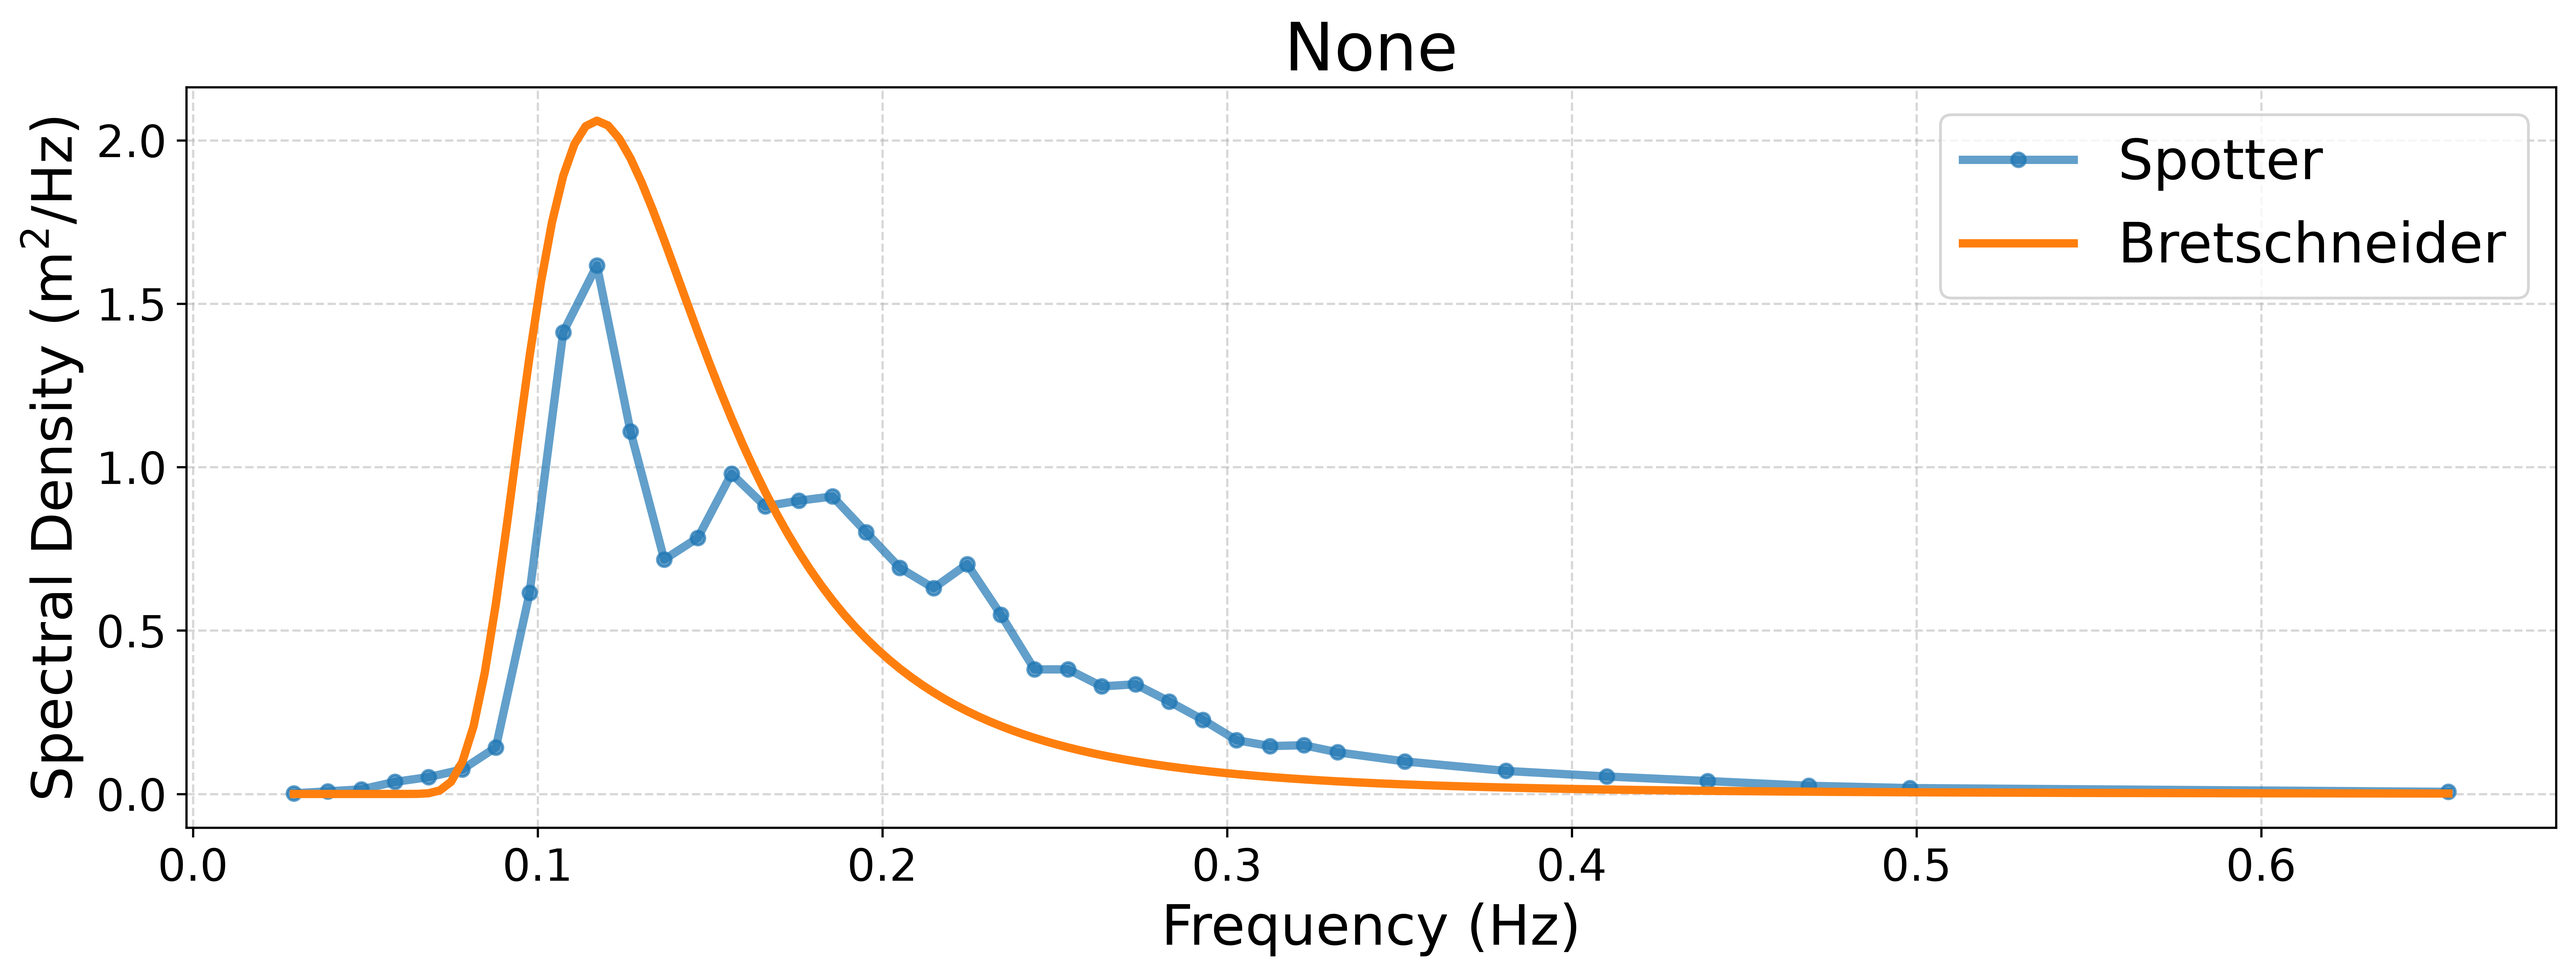
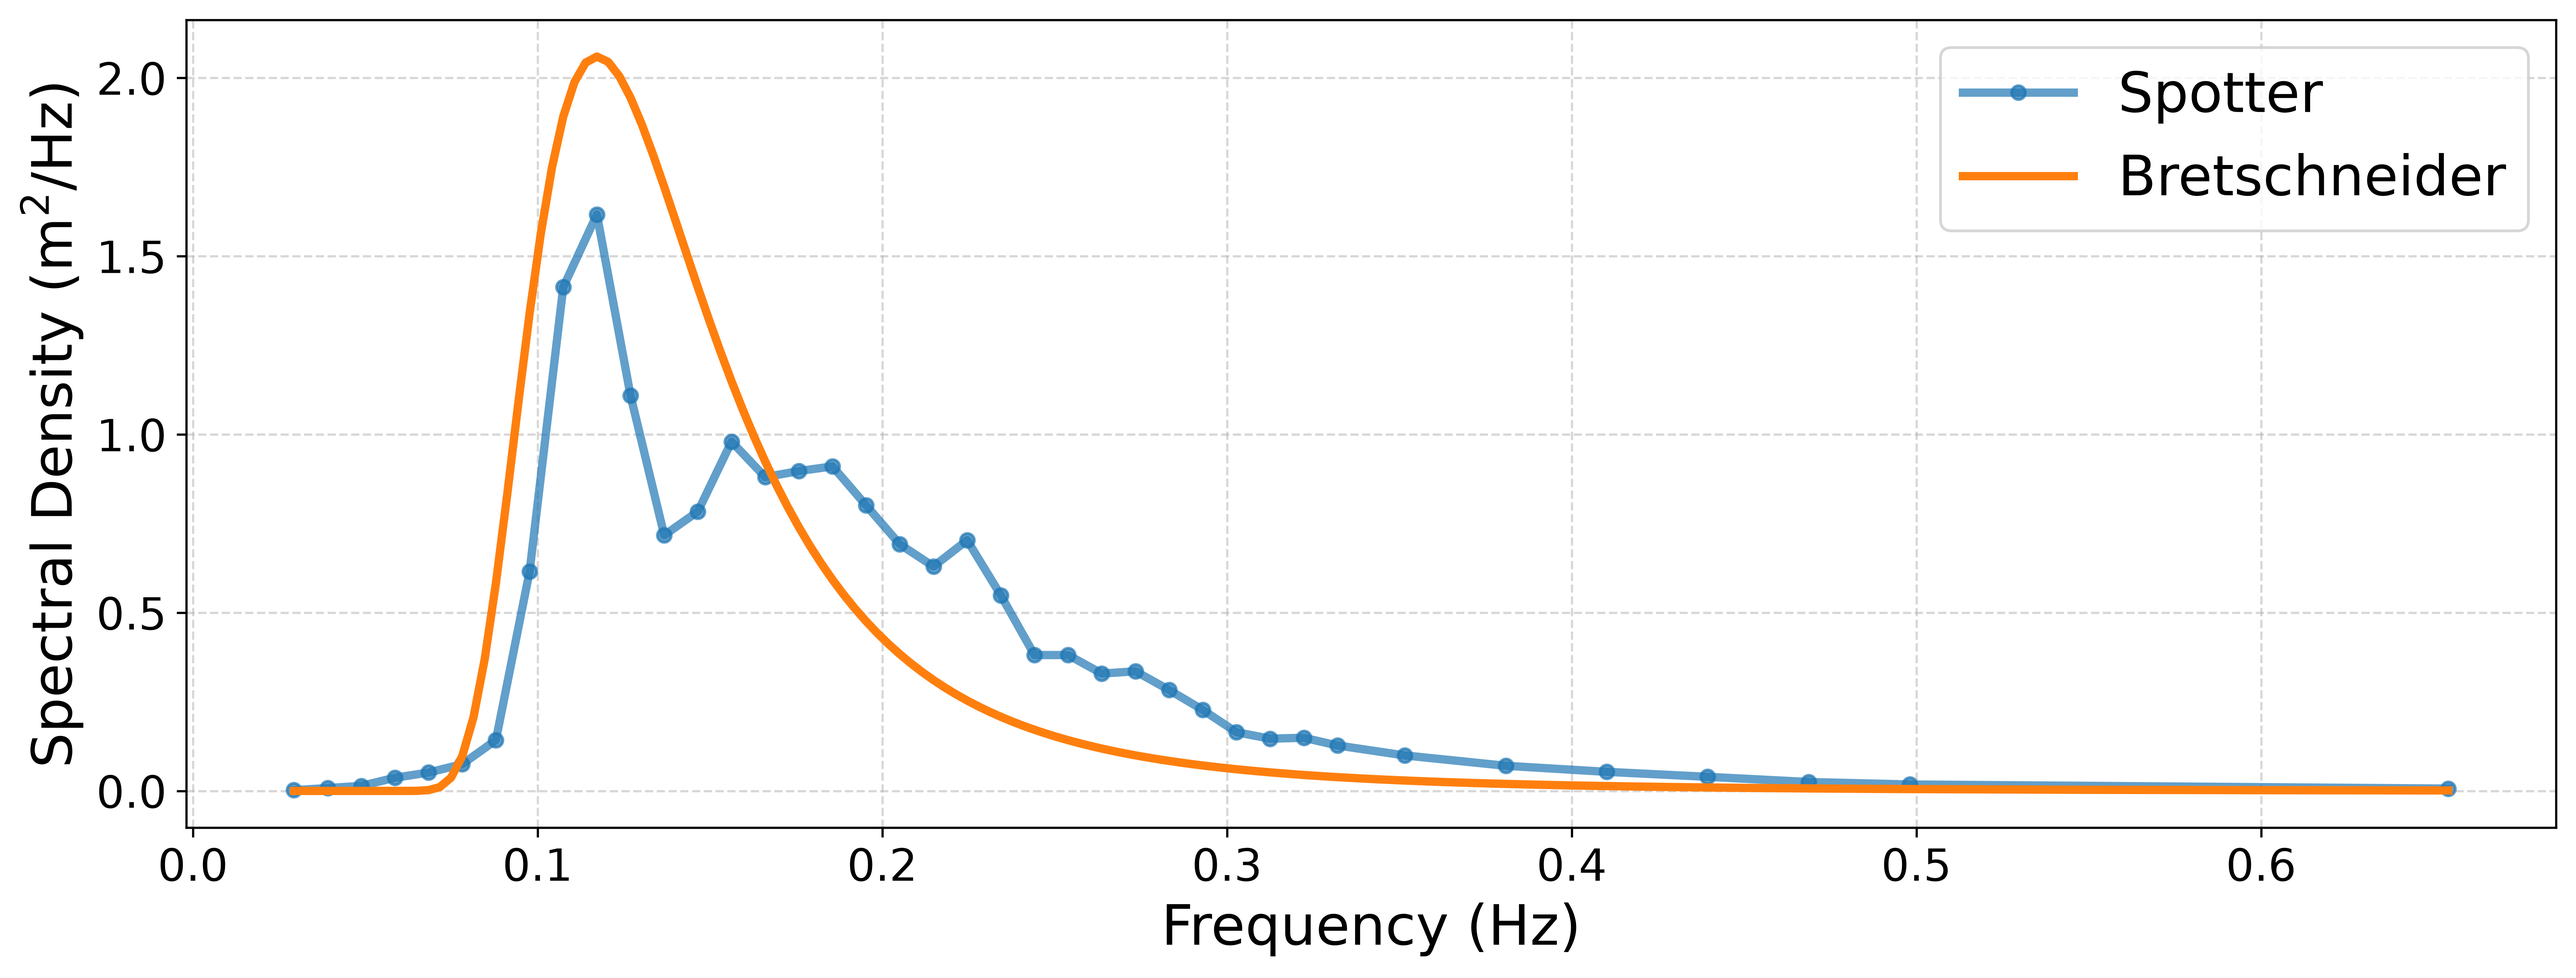
FixedParam

diff --git a/UMERC2026/UMERC2026.py b/UMERC2026/UMERC2026.py
@@ -124,6 +124,8 @@ def slide1spotter(spectrum=1000, name ="slide1spotter.png", types = ('spotter', 
         "bretschneider": {"label": "Bretschneider", "color": spectrums.get_color_for_spectrum_type("bretschneider"), "fmt": "plot"},
         "BretHFP": {"label": "BretHFP", "color": spectrums.get_color_for_spectrum_type("BretHFP"), "fmt": "plot"},
         "BretSFP": {"label": "BretSFP", "color": spectrums.get_color_for_spectrum_type("BretSFP"), "fmt": "plot"},
+        "BretTPFP": {"label": "BretTPFP", "color": spectrums.get_color_for_spectrum_type("BretTPFP"), "fmt": "plot"},
+        "BretPFP": {"label": "BretPFP", "color": spectrums.get_color_for_spectrum_type("BretPFP"), "fmt": "plot"},
         "jonswap": {"label": "Jonswap", "color": spectrums.get_color_for_spectrum_type("jonswap"), "fmt": "plot", "marker": "x"},
         "regular": {"label": "Regular", "color": spectrums.get_color_for_spectrum_type("regular"), "fmt": "vline", "alpha": 0.65},
         "regularHFP": {"label": "RegularHFP", "color": spectrums.get_color_for_spectrum_type("regularHFP"), "fmt": "vline", "alpha": 0.65}
@@ -2276,8 +2278,8 @@ def main():
     #     "batch_name4": "batch_results_20260315141339",
     #     "batch_name5": "batch_results_20260327142504",
     # }
-    slide1dampingcurve(name='slide1dampingcurve', metric='avg_tot_power', spectrum_id=spectrum1simple, width=5, 
-                            heightper=5, title='Optimal Damping', **batches_slide2)
+    #slide1dampingcurve(name='slide1dampingcurve', metric='avg_tot_power', spectrum_id=spectrum1simple, width=5, 
+    #                        heightper=5, title='Optimal Damping', **batches_slide2)
 
     ##Slide2
     print('now"slide2')
@@ -2287,8 +2289,8 @@ def main():
     # ##Slide3
     print('now"slide3')
     slide3spectrum = 297
-    slide1dampingcurve(name='slide3dampingcurve', metric='avg_tot_power', spectrum_id=slide3spectrum, width=5, 
-                            heightper=5, title='Optimal Damping', **batches_slide2)
+   # slide1dampingcurve(name='slide3dampingcurve', metric='avg_tot_power', spectrum_id=slide3spectrum, width=5, 
+   #                         heightper=5, title='Optimal Damping', **batches_slide2)
     slide1_damping_bar_single_spectrum(name = 'slide3damping_bar_single_spectrum', spectrum_id=slide3spectrum, title='', width=14, heightper=6, **batches_slide2) #297
     slide1_damping_violin_by_scalefactor(name = 'slide3dampingviolinscalefactor', verticaltitle='Difference from Indv. Best Damping (%)', exclude_spectrum_ids=[822, 1031, 1045], title='', width=14, heightper=8, **batches_slide2)
 
@@ -2302,8 +2304,8 @@ def main():
     ##Slide5
     print('now"slide5')
     slide5spectrum = 437
-    slide1dampingcurve(name='slide5dampingcurve', metric='avg_tot_power', spectrum_id=slide5spectrum, **batches_slide2)
-    slide1dampingcurve(name='slide5dampingcurvebret', metric='avg_tot_power', spectrum_id=slide5spectrum, spectrum_types=('all'), **batches_slide2)
+#    slide1dampingcurve(name='slide5dampingcurve', metric='avg_tot_power', spectrum_id=slide5spectrum, **batches_slide2)
+    #slide1dampingcurve(name='slide5dampingcurvebret', metric='avg_tot_power', spectrum_id=slide5spectrum, spectrum_types=('all'), **batches_slide2)
 
     # ##Slide6
     # slide6spectrums = (437, 535)
@@ -2318,10 +2320,10 @@ def main():
     #PARAMETERIZATIONS SLIDE
     print('now"slideparams')
     slideparamspec = 437
-    slide1spotter(name='slideparam_spot', spectrum = slideparamspec, types=('spotter',), width=13, heightper=5) 
-    slide1spotter(name='slideparam_spot_b', spectrum = slideparamspec, types=('spotter', 'bretschneider'), width=13, heightper=5)
-    slide1spotter(name='slideparam_spot_b_TPFP', spectrum = slideparamspec, types=('spotter', 'bretschneider', 'BretTPFP'), width=13, heightper=5)
-    slide1spotter(name='slideparam_spot_b_TPFP_PFP', spectrum = slideparamspec, types=('spotter', 'BretPFP', 'bretschneider', 'BretTPFP'), width=13, heightper=5)
+    slide1spotter(name='slideparam_spot', spectrum = slideparamspec, types=('spotter',), title='', width=13, heightper=5) 
+    slide1spotter(name='slideparam_spot_b', spectrum = slideparamspec, types=('spotter', 'bretschneider'), title='', width=13, heightper=5)
+    slide1spotter(name='slideparam_spot_b_TPFP', spectrum = slideparamspec, types=('spotter', 'bretschneider', 'BretTPFP'), title='', width=13, heightper=5)
+    slide1spotter(name='slideparam_spot_b_TPFP_PFP', spectrum = slideparamspec, types=('spotter', 'BretPFP', 'bretschneider', 'BretTPFP'), title='', width=13, heightper=5)
 
 
     # #Slide 8
